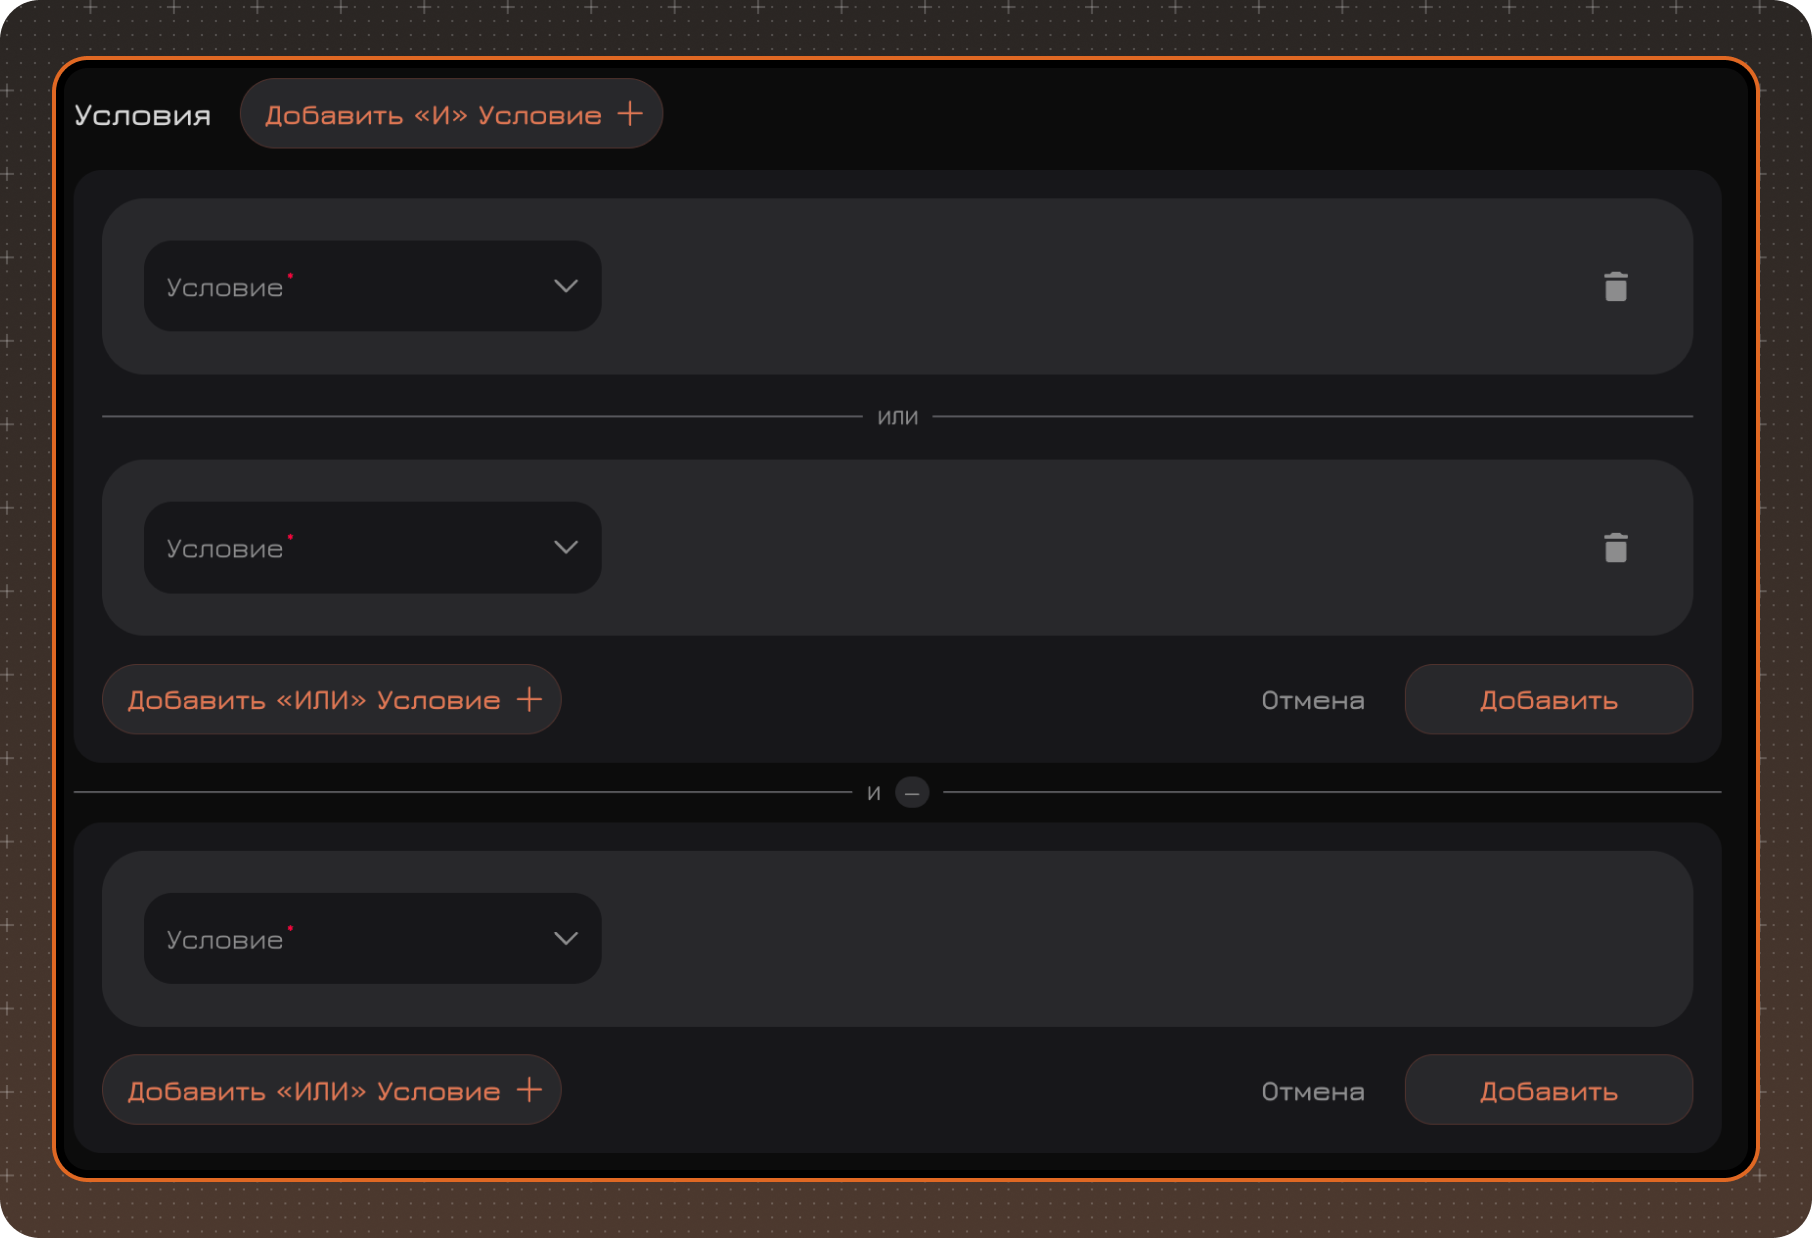
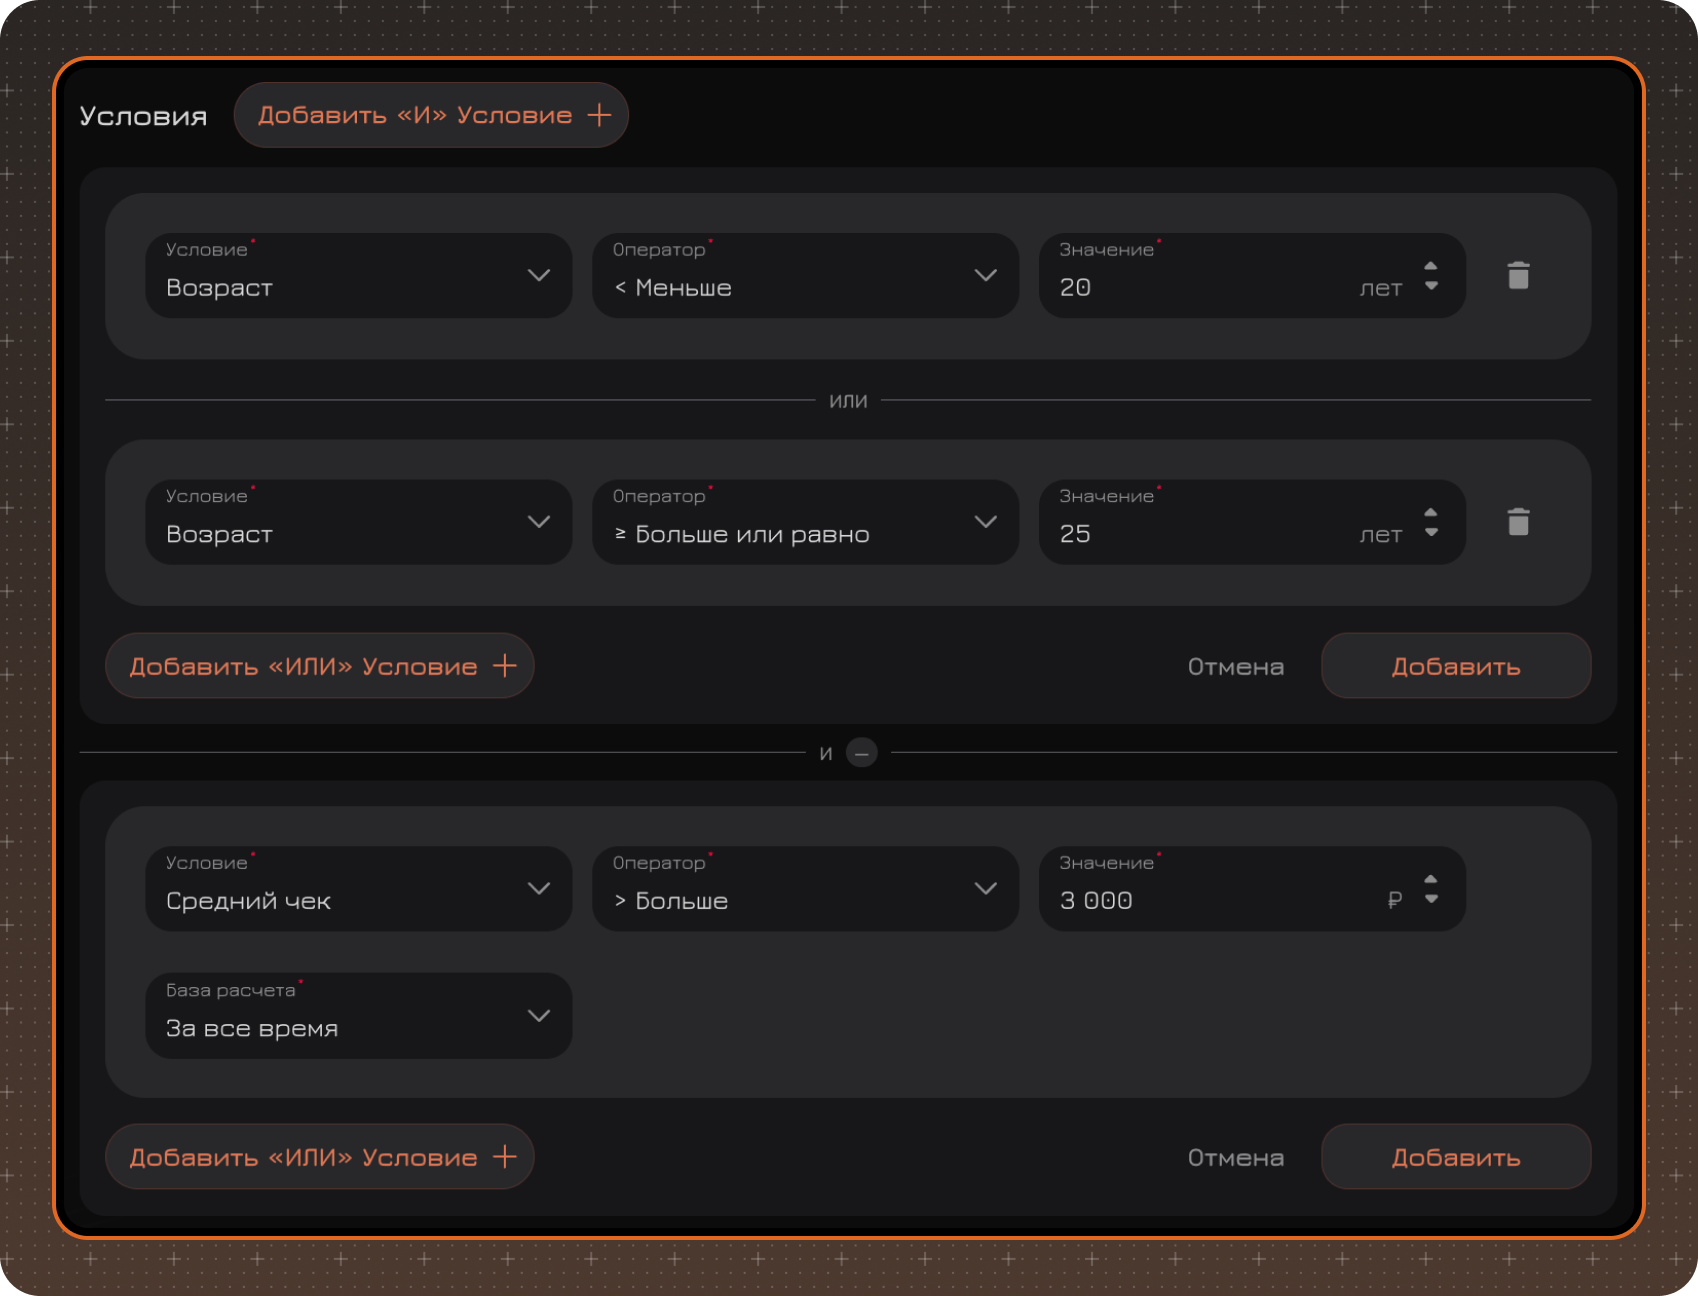
segments 1.1

diff --git a/content/ru/marketing/segments/segments-create.md b/content/ru/marketing/segments/segments-create.md
@@ -11,7 +11,7 @@ updatedAt: 2026-08-15
 
 [[delimiter rows=1]]
 
-1. Откройте раздел с `Маркетинг -> Сегменты`.
+1. Откройте раздел `Маркетинг -> Сегменты`.
 2. Нажмите `Создать`.
 3. Выберите тип сегмента.
 4. Заполните остальные поля.
@@ -27,19 +27,15 @@ updatedAt: 2026-08-15
 - **Описание**
 - **Условия**
 
-[[info type=custom color=#E06823]]
-Если во время создания переключаться между типами `Статичный` и `Динамический`, заполненные данные формы сохраняются отдельно для каждого типа. Настроенные условия между типами не синхронизируются.
-[[/info]]
-
-Если правила настроены корректно, но им не соответствует ни один гость, сегмент можно сохранить пустым. Перед сохранением система предупредит об этом.
+Если правила настроены корректно, но им не соответствует ни один гость, сегмент можно сохранить пустым.
 
 [[delimiter rows=1]]
 
-## Условя сегмента
+## Условия сегмента
 
 Условие определяет, какие гости попадут в сегмент. Условия можно объединять в блоки. Внутри одного блока условия объединяются через **ИЛИ**, а между отдельными блоками применяется **И**. 
 
-Например `Возраст больше 25` **ИЛИ** `Возраст меньше 20` или `Средний чек больше 3000`.
+Например `Возраст меньше 20` **ИЛИ** `Возраст больше или равен 25` или `Средний чек больше 3000`.
 
 В итоговый сегмент попадут гости, которые соответствуют хотя бы одному условию первого блока **И** одновременно соответствуют условию второго блока.
 
@@ -112,7 +108,7 @@ updatedAt: 2026-08-15
 
 [[delimiter rows=1]]
 
-1. Заполните доступный блок усовия или нажмите `Добавить "И" Условие`.
+1. Заполните доступный блок условия или нажмите `Добавить "И" Условие`.
 2. В созданном блоке выберите условие.
 3. Настройте оператор, значение и базу расчета.
 4. Если для выбранного условия используется база расчета, настройте ее параметры.
@@ -159,6 +155,8 @@ updatedAt: 2026-08-15
 - Поиск по гостям в сегменте
 - Дата последнего обновления
 - Кнопка `Обновить`
+- Настройка колонок списка
+- Экспорт списка
 
 [[info type=custom color=#E06823]]
 Поиск в составе сегмента работает только по основному номеру телефона гостя. Дополнительные номера телефона в поиске не учитываются.
@@ -166,16 +164,9 @@ updatedAt: 2026-08-15
 
 ### Обновление списка гостей
 
-Чтобы проверить состав сегмента после изменения условий:
-
-1. Измените локации, условия или параметры базы расчета.
-2. Нажмите `Обновить`.
-3. Дождитесь завершения расчета.
-4. Проверьте новый список гостей и счетчики.
+Чтобы проверить состав сегмента после изменения условий нажмите `Обновить`.
 
 Во время расчета кнопка `Обновить` блокируется и отображает состояние загрузки. Таблица и счетчики также могут отображать загрузку.
-
-Если обновить страницу браузера до сохранения изменений, состав снова будет показан в соответствии с последним сохраненным или последним примененным обновлением.
 
 [[info type=custom color=#E06823]]
 Кнопка `Обновить` пересчитывает предварительный список гостей, но сама по себе **не сохраняет** изменения сегмента.
@@ -196,7 +187,7 @@ updatedAt: 2026-08-15
 5. Если сегмент используется в рассылках или аналитических отчетах, ознакомьтесь с предупреждением.
 6. Подтвердите применение изменений.
 
-После сохранения исзменений система обновляет конфигурацию сегмента и пересчитывает его состав. Если изменения затрагивают связанные процессы, пересчет выполняется в фоне.
+После сохранения изменений система обновляет конфигурацию сегмента и пересчитывает его состав. Если изменения затрагивают связанные процессы, пересчет выполняется в фоне.
 
 В зависимости от использования сегмента система может: перезапустить связанные **рассылки** и пересчитать данные в **аналитических отчетах**.
 
@@ -229,7 +220,7 @@ updatedAt: 2026-08-15
 
 [[delimiter rows=1]]
 
-Удалить сегмент можно со страницы сегмента или через контекстное меню в списке(нажав ПКМ на сегмент в списке).
+Удалить сегмент можно со страницы сегмента или через контекстное меню в списке (нажав ПКМ на сегмент в списке).
 
 1. Нажмите `Удалить`.
 2. Проверьте информацию в окне подтверждения.

diff --git a/content/ru/marketing/segments/segments-info.md b/content/ru/marketing/segments/segments-info.md
@@ -46,9 +46,7 @@ updatedAt: 2026-08-15
 
 **Поиск** сегментов доступен по названию.
 
-**Фильтрация** доступна по Локациям, Количеству гостей, Автору и дате создания, Автоу и дате последнего обновления, описанию.
+**Фильтрация** доступна по Локациям, Количеству гостей, Автору и дате создания, Автору и дате последнего обновления, описанию.
 
-[[info type=custom color=#E06823]]
-При выборе локаций доступны только локации, открытые для гостей.
-[[/info]]
+[[delimiter rows=3]]
 
